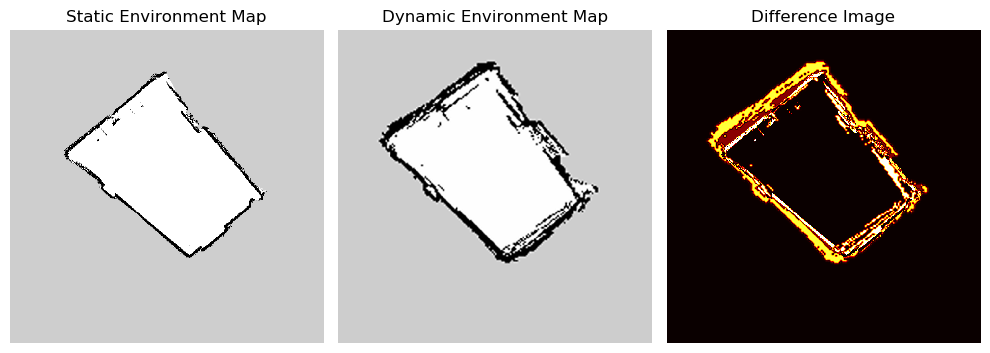
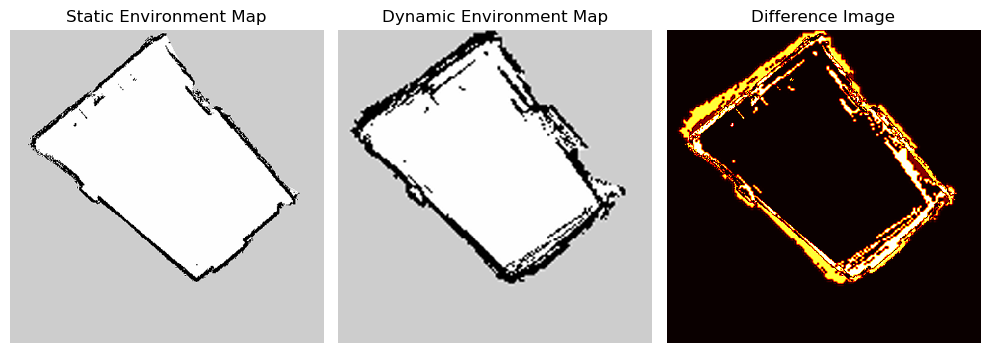
Gmapping Map similarity updated

Changed region(s): [[0.6667, 0.0623, 0.9697, 0.8102], [0.3333, 0.0623, 0.6364, 0.8102], [0.0303, 0.0935, 0.303, 0.8102]]

diff --git a/SLAM/Office/map_similarity_comparision.py b/SLAM/Office/map_similarity_comparision.py
@@ -60,8 +60,8 @@ def compare_maps(static_map_path, dynamic_map_path):
     dynamic_map = np.array(Image.open(dynamic_map_path).convert('L'))
 
     # Zoom in on both images by a specified zoom factor
-    static_map_zoomed = zoom_in_image(static_map, zoom_factor=1)
-    dynamic_map_zoomed = zoom_in_image(dynamic_map, zoom_factor=2)
+    static_map_zoomed = zoom_in_image(static_map, zoom_factor=1.33)
+    dynamic_map_zoomed = zoom_in_image(dynamic_map, zoom_factor=2.5)
 
     # Resize both images to 480x480 pixels
     static_map_resized = resize_image(static_map_zoomed, size=(640, 640))
